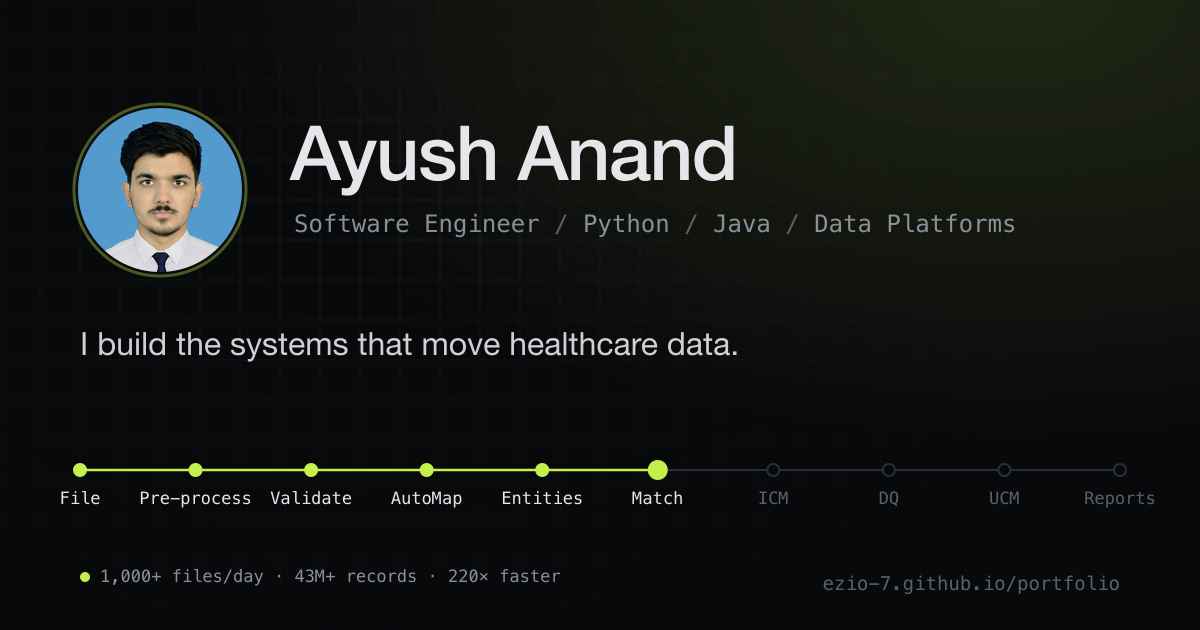
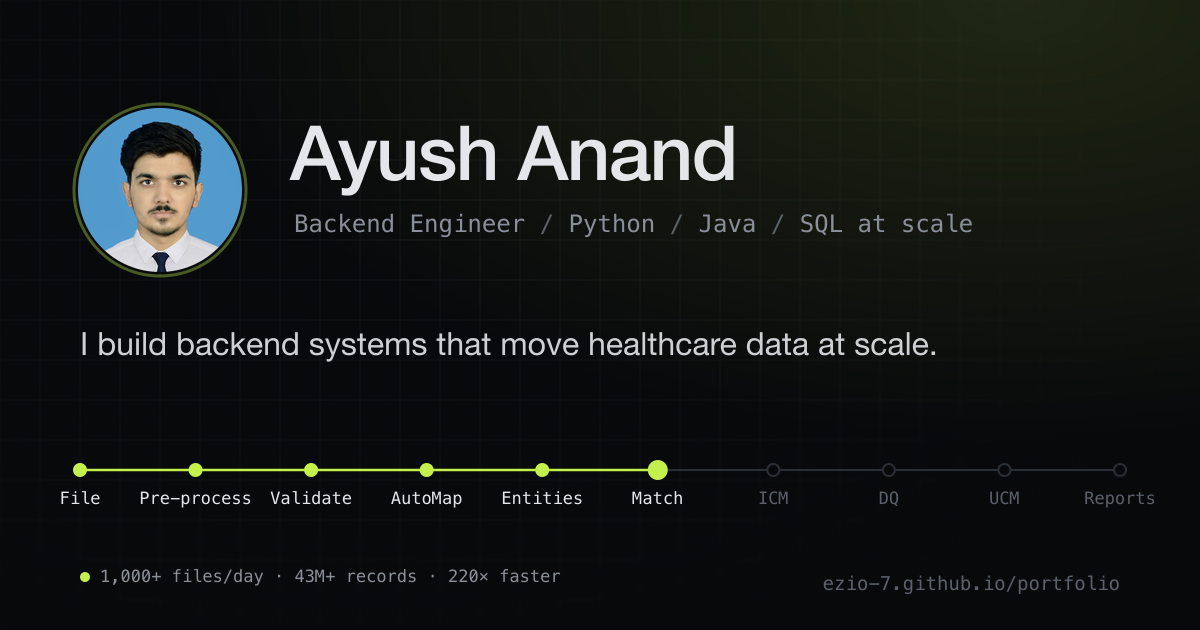
Backend headline, hiring snapshot, mobile demo, SEO, analytics and search verification

Changed region(s): [[0.1542, 0.5127, 0.7708, 0.573], [0.2467, 0.3317, 0.7092, 0.3921], [0.74, 0.3317, 0.8325, 0.3921]]

diff --git a/src/styles/global.css b/src/styles/global.css
@@ -40,9 +40,11 @@ body {
   color: #0b0c0e;
 }
 
-a {
-  color: inherit;
-  text-decoration: none;
+@layer base {
+  a {
+    color: inherit;
+    text-decoration: none;
+  }
 }
 
 :focus-visible {
@@ -74,46 +76,49 @@ a {
   font-weight: 500;
 }
 
-.tag {
-  font-family: var(--font-mono);
-  font-size: 10.5px;
-  color: var(--color-muted);
-  border: 1px solid var(--color-line);
-  border-radius: 999px;
-  padding: 1px 8px;
-  white-space: nowrap;
-}
+/* Component classes live in a layer so Tailwind utilities (e.g. `hidden`) can override them */
+@layer components {
+  .tag {
+    font-family: var(--font-mono);
+    font-size: 10.5px;
+    color: var(--color-muted);
+    border: 1px solid var(--color-line);
+    border-radius: 999px;
+    padding: 1px 8px;
+    white-space: nowrap;
+  }
 
-.btn {
-  display: inline-flex;
-  align-items: center;
-  gap: 6px;
-  font-size: 12.5px;
-  border: 1px solid var(--color-line-2);
-  border-radius: 8px;
-  padding: 6px 12px;
-  color: var(--color-ink);
-  transition: border-color 0.15s, background 0.15s, color 0.15s;
-}
-.btn:hover {
-  border-color: var(--color-accent);
-  color: var(--color-accent);
-}
-.btn-primary {
-  background: var(--color-accent);
-  border-color: var(--color-accent);
-  color: #0b0c0e;
-  font-weight: 500;
-}
-.btn-primary:hover {
-  background: transparent;
-  color: var(--color-accent);
-}
+  .btn {
+    display: inline-flex;
+    align-items: center;
+    gap: 6px;
+    font-size: 12.5px;
+    border: 1px solid var(--color-line-2);
+    border-radius: 8px;
+    padding: 6px 12px;
+    color: var(--color-ink);
+    transition: border-color 0.15s, background 0.15s, color 0.15s;
+  }
+  .btn:hover {
+    border-color: var(--color-accent);
+    color: var(--color-accent);
+  }
+  .btn-primary {
+    background: var(--color-accent);
+    border-color: var(--color-accent);
+    color: #0b0c0e;
+    font-weight: 500;
+  }
+  .btn-primary:hover {
+    background: transparent;
+    color: var(--color-accent);
+  }
 
-.card {
-  background: var(--color-surface);
-  border: 1px solid var(--color-line);
-  border-radius: 12px;
+  .card {
+    background: var(--color-surface);
+    border: 1px solid var(--color-line);
+    border-radius: 12px;
+  }
 }
 
 /* Flowing dots along SVG paths */

diff --git a/src/data/profile.ts b/src/data/profile.ts
@@ -1,11 +1,19 @@
 export const profile = {
   name: 'Ayush Anand',
-  role: 'Software Engineer',
-  focus: ['Python', 'Java', 'Data Platforms'],
+  role: 'Backend Engineer',
+  focus: ['Python', 'Java', 'SQL at scale'],
   tagline:
-    'I build the systems that move healthcare data: ingestion pipelines, data-quality engines and the services that orchestrate them.',
+    'I build backend systems that move healthcare data at scale: services, pipelines, and the SQL that keeps them fast.',
+  // Hiring snapshot shown in the hero; leave a field '' to hide it
+  hiring: {
+    open: true,
+    target: 'SDE-2 · Backend Engineering',
+    experience: '2+ yrs experience',
+    location: 'India',
+    notice: '',
+  },
   about: [
-    'Software engineer at HiLabs, working on a clinical data platform that ingests 1,000+ files a day for multiple US health plans. Most of my work sits where Python data pipelines meet Java services and SQL that has to stay fast at tens of millions of rows.',
+    'Backend engineer at HiLabs, building the services behind a clinical data platform that ingests 1,000+ files a day for multiple US health plans. Most of my work sits where Python services meet Java orchestration and SQL that has to stay fast at tens of millions of rows.',
     'Before that I built backends at EY and interned across microservices, message queues and real-time apps. IIT Kharagpur graduate.',
   ],
   email: 'ayushanand.app@gmail.com',
